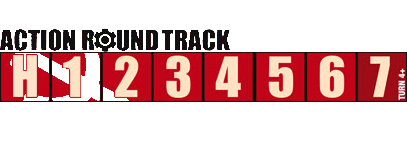
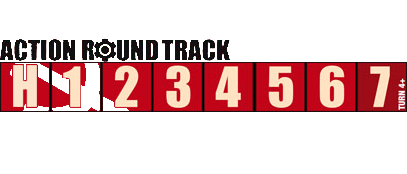
widened turn track

diff --git a/lib/twilight_struggle.js b/lib/twilight_struggle.js
@@ -19,17 +19,17 @@ module.exports = {
       faces: ["twilight_struggle/turntrack.png"],
       locked: true,
       x: 871,
-      y: 200,
+      y: 190,
       width: 407,
-      height: 154,
-      snapZones: [{x: 0, width: 50, cellWidth: 50, cellHeight: 77},
-                  {x: 51, width: 50, cellWidth: 50, cellHeight: 77},
-                  {x: 102, width: 50, cellWidth: 50, cellHeight: 77},
-                  {x: 153, width: 50, cellWidth: 50, cellHeight: 77},
-                  {x: 204, width: 50, cellWidth: 50, cellHeight: 77},
-                  {x: 255, width: 50, cellWidth: 50, cellHeight: 77},
-                  {x: 306, width: 50, cellWidth: 50, cellHeight: 77},
-                  {x: 357, width: 50, cellWidth: 50, cellHeight: 77}],
+      height: 174,
+      snapZones: [{x: 0, width: 50, cellWidth: 50, cellHeight: 87},
+                  {x: 51, width: 50, cellWidth: 50, cellHeight: 87},
+                  {x: 102, width: 50, cellWidth: 50, cellHeight: 87},
+                  {x: 153, width: 50, cellWidth: 50, cellHeight: 87},
+                  {x: 204, width: 50, cellWidth: 50, cellHeight: 87},
+                  {x: 255, width: 50, cellWidth: 50, cellHeight: 87},
+                  {x: 306, width: 50, cellWidth: 50, cellHeight: 87},
+                  {x: 357, width: 50, cellWidth: 50, cellHeight: 87}],
     },
 
     {
